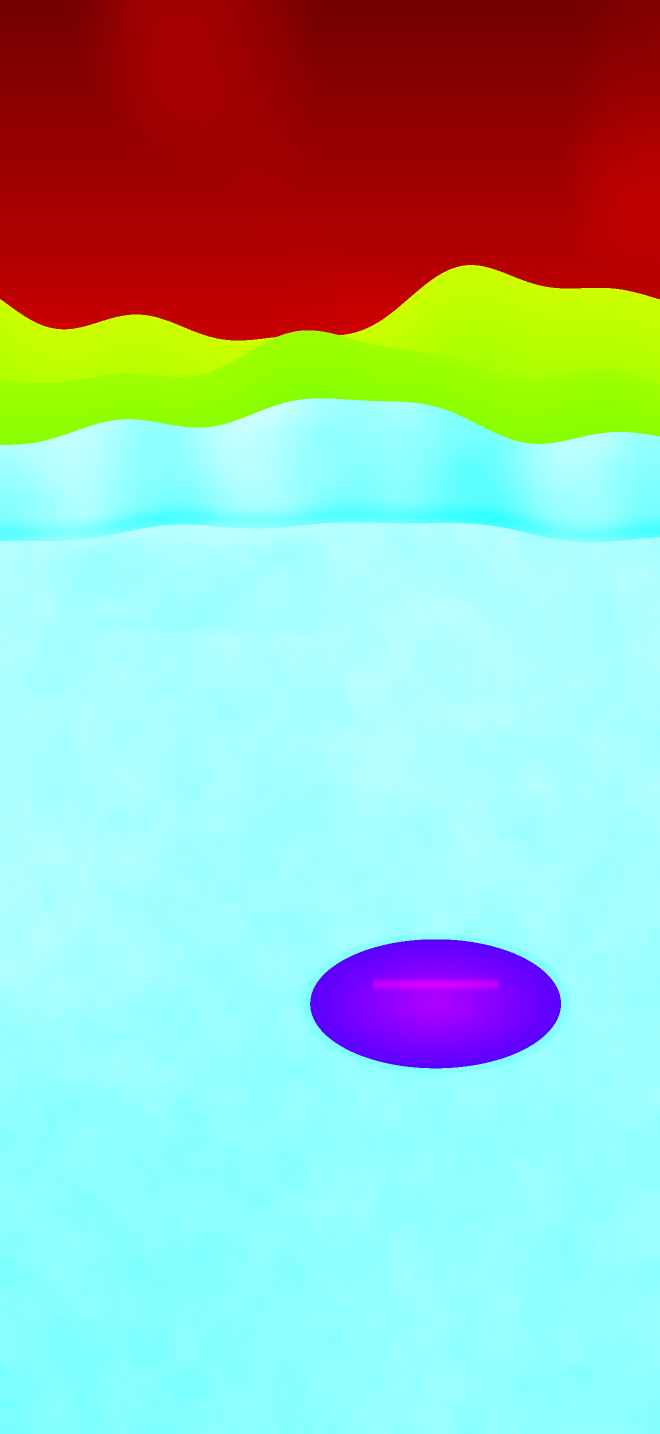
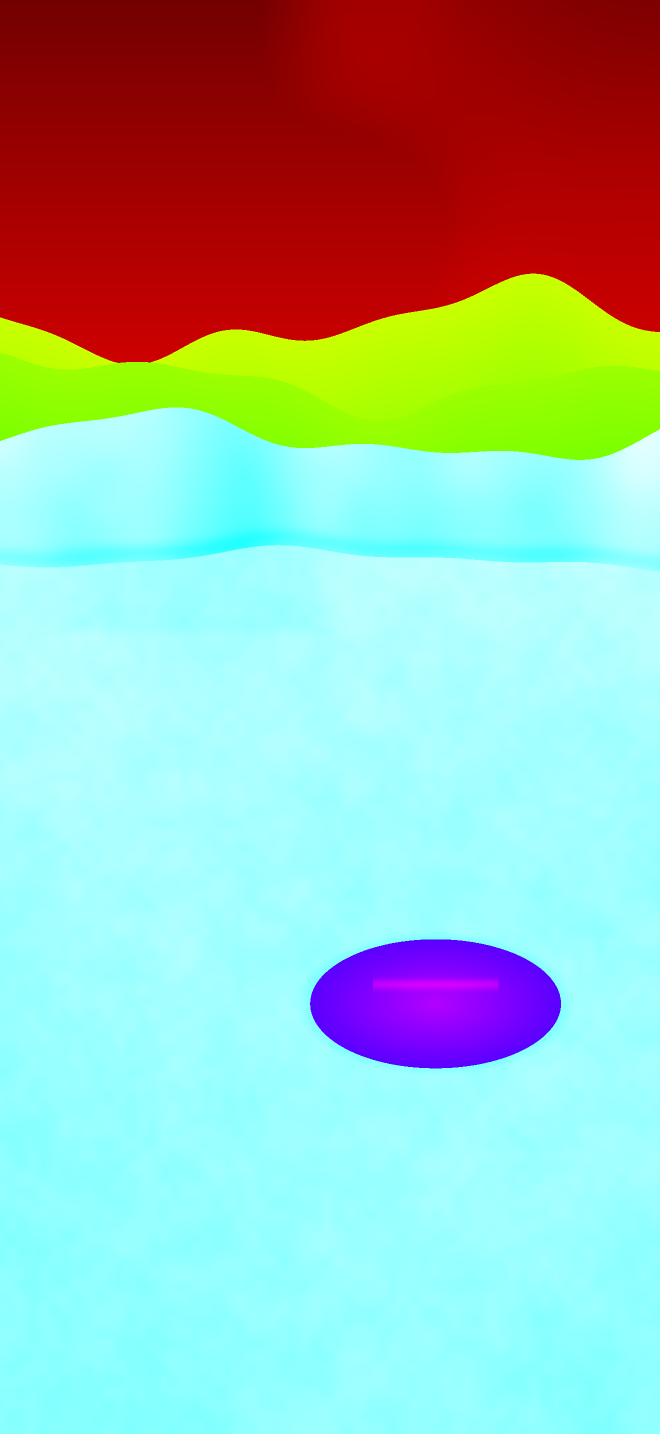
Scene: the Yard and the Far yard join without a seam
The script paints both panels as one wide landscape and cuts it in two,
so the hills, sky, grass and walk mask meet at the join. Both panels
share one hill line and one tree line: a tree near the join shows on
both, and lower trees stand only by the outer edges.

Claude-Session: https://claude.ai/code/session_01NU98SDL9QViasjAEJeH7z4

diff --git a/App/Featherwick/Scene/SceneTrees.swift b/App/Featherwick/Scene/SceneTrees.swift
@@ -178,12 +178,58 @@ enum TreeLine {
         return trees
     }
 
+    /// How far past a panel edge a tree may stand and still show on that panel (its canopy reaches in).
+    static let edgeReach: CGFloat = 0.15
+
+    /// One tree line across panels that join (the Yard, then the Far yard to its right), so the hill
+    /// line runs on without a seam. A tree near the join shows on both panels, each copy clipped at
+    /// its edge. Lower trees stand only by a panel's outer edge, never at the join.
+    static func makeJoined(_ panels: [FarmPanel], seed: UInt64, hillY: CGFloat) -> [FarmPanel: [PlacedTree]] {
+        var rng = SeededRNG(seed: seed)
+        var line: [PlacedTree] = []
+        var x: CGFloat = CGFloat.random(in: -0.04...0.1, using: &rng)
+        while x < CGFloat(panels.count) + 0.04 {
+            let y: CGFloat = hillY + CGFloat.random(in: hillJitter, using: &rng)
+            line.append(tree(id: line.count, at: CGPoint(x: x, y: y), using: &rng))
+            x += CGFloat.random(in: spacing, using: &rng)
+        }
+        var out: [FarmPanel: [PlacedTree]] = [:]
+        for (index, panel) in panels.enumerated() {
+            let left: CGFloat = CGFloat(index)
+            let near: [PlacedTree] = line.filter { $0.base.x >= left - edgeReach && $0.base.x <= left + 1 + edgeReach }
+            var trees: [PlacedTree] = []
+            for t in near { trees.append(moved(t, by: -left, id: trees.count)) }
+            // Lower trees by the outer edge only: the first panel's left, the last panel's right.
+            var sides: [ClosedRange<CGFloat>] = []
+            if index == 0 { sides.append(0.02...0.12) }
+            if index == panels.count - 1 { sides.append(0.88...0.98) }
+            let lower: Int = Int.random(in: lowerCount, using: &rng)
+            for _ in 0..<lower where !sides.isEmpty {
+                let mask: WalkMask? = WalkMask.all[panel]
+                if let spot = lowerSpot(panel: panel, hillY: hillY, mask: mask, sides: sides, using: &rng) {
+                    trees.append(tree(id: trees.count, at: spot, using: &rng))
+                }
+            }
+            out[panel] = trees
+        }
+        return out
+    }
+
+    /// The same tree, its base moved across by `dx` panel widths, with a new id.
+    private static func moved(_ t: PlacedTree, by dx: CGFloat, id: Int) -> PlacedTree {
+        PlacedTree(
+            id: id, kind: t.kind, base: CGPoint(x: t.base.x + dx, y: t.base.y), size: t.size,
+            flipped: t.flipped, hueShift: t.hueShift, swayDegrees: t.swayDegrees, swaySeconds: t.swaySeconds,
+            swayDelay: t.swayDelay)
+    }
+
     /// A spot near the left or right edge, below the hill line, clear of the building ground.
     private static func lowerSpot(
-        panel: FarmPanel, hillY: CGFloat, mask: WalkMask?, using rng: inout SeededRNG
+        panel: FarmPanel, hillY: CGFloat, mask: WalkMask?,
+        sides: [ClosedRange<CGFloat>] = [0.02...0.12, 0.88...0.98], using rng: inout SeededRNG
     ) -> CGPoint? {
         for _ in 0..<8 {
-            let side: ClosedRange<CGFloat> = Bool.random(using: &rng) ? 0.02...0.12 : 0.88...0.98
+            guard let side: ClosedRange<CGFloat> = sides.randomElement(using: &rng) else { return nil }
             let spot = CGPoint(
                 x: CGFloat.random(in: side, using: &rng), y: hillY + CGFloat.random(in: lowerDrop, using: &rng))
             // Keep clear of the building ground, with room for the building to show.

diff --git a/App/Featherwick/Scene/FarmScene.swift b/App/Featherwick/Scene/FarmScene.swift
@@ -128,8 +128,14 @@ enum SceneArt {
     }
 
     private static let treeLines: [FarmPanel: [PlacedTree]] = {
+        // The Yard and the Far yard are one landscape (see `scripts/make_scene_art.py`), so they share one
+        // tree line that runs across the join. Any other scene panel gets its own.
+        let joined: [FarmPanel] = [.yard, .farYard].filter { SceneArtLayout.hillLine($0) != nil }
         var out: [FarmPanel: [PlacedTree]] = [:]
-        for panel in FarmPanel.allCases {
+        if let first = joined.first, let hill = SceneArtLayout.hillLine(first) {
+            out = TreeLine.makeJoined(joined, seed: seed(first), hillY: hill)
+        }
+        for panel in FarmPanel.allCases where out[panel] == nil {
             guard let hill = SceneArtLayout.hillLine(panel) else { continue }
             out[panel] = TreeLine.make(panel: panel, seed: seed(panel), hillY: hill, mask: WalkMask.all[panel])
         }

diff --git a/App/Featherwick/Scene/SceneArtLayout.swift b/App/Featherwick/Scene/SceneArtLayout.swift
@@ -25,8 +25,8 @@ enum SceneArtLayout {
     /// birds there are smallest.
     static func hillLine(_ panel: FarmPanel) -> CGFloat? {
         switch panel {
-        case .yard: 0.4
-        case .farYard: 0.3702
+        case .yard: 0.3898
+        case .farYard: 0.3898
         default: nil
         }
     }

diff --git a/scripts/make_scene_art.py b/scripts/make_scene_art.py
@@ -5,7 +5,8 @@ Run from the repository root (Python 3, Pillow and numpy):
 
     python3 scripts/make_scene_art.py
 
-It writes, for each panel (`yard`, `far-yard`):
+The Yard and the Far yard are one landscape: the script paints both as one wide picture and cuts it
+in two, so they join without a seam. It writes, for each panel (`yard`, `far-yard`):
 
 - `App/Featherwick/Art/Scene/scene-<panel>-land.png`: the landscape, 660 x 1434 px (half of a
   1320 x 2868 iPhone screen), RGB. R is the value (shading, 0 = dark, 1 = light). G and B are two
@@ -46,31 +47,34 @@ WALK_MARGIN = 0.012
 # Material bits (G, B).
 SKY, FAR_HILL, GRASS, POND = (0, 0), (1, 0), (1, 1), (0, 1)
 
+# The Yard and the Far yard are one landscape, side by side (Yard left, Far yard right). The script
+# paints it as one wide picture and cuts it in two, so the hills, sky and grass meet at the join
+# without a seam. X runs 0...2 across the pair (1 = one panel width); Y runs 0...1 down.
+SEED = 11
+HILL_LINE = 0.39
+FAR_RIDGES = [(0.225, 0.021, 0.79), (0.265, 0.017, 0.61)]
+NEAR_RIDGE = 0.305
+
 PANELS = [
     {
         "key": "yard",
         "swift": "yard",
-        "seed": 11,
-        "hill_line": 0.40,
-        "far_ridges": [(0.235, 0.020, 0.78), (0.275, 0.018, 0.60)],
-        "near_ridge": 0.315,
-        # Ground kept for the coop run: x, y, width, height as fractions.
+        "index": 0,
+        # Ground kept for the coop run: x, y, width, height as fractions of this panel.
         "reserved": (0.56, 0.43, 0.34, 0.12),
         "pond": None,
     },
     {
         "key": "far-yard",
         "swift": "farYard",
-        "seed": 23,
-        "hill_line": 0.37,
-        "far_ridges": [(0.215, 0.022, 0.80), (0.255, 0.016, 0.62)],
-        "near_ridge": 0.295,
+        "index": 1,
         # The back fence, along the hill line on the left.
         "reserved": (0.06, 0.375, 0.46, 0.07),
-        # Centre x, centre y, radius x, radius y (fractions of width and height).
+        # Centre x, centre y, radius x, radius y (fractions of this panel's width and height).
         "pond": (0.66, 0.70, 0.19, 0.045),
     },
 ]
+COUNT = len(PANELS)
 
 
 def smooth_noise(rng, cells_x, cells_y, w, h):
@@ -89,24 +93,31 @@ def ridge(rng, xs, base, amp):
     return y
 
 
-def make_panel(p):
-    rng = np.random.RandomState(p["seed"])
-    xs = (np.arange(W, dtype=np.float32) + 0.5) / W
+def to_panel_space(p, x):
+    """A panel-local x (0...1) in the shared space of the pair."""
+    return p["index"] + x
+
+
+def make_landscape():
+    """The whole pair as one picture: value, material bits, the hill line, and the walk mask."""
+    rng = np.random.RandomState(SEED)
+    WW = W * COUNT
+    xs = (np.arange(WW, dtype=np.float32) + 0.5) / W
     ys = (np.arange(H, dtype=np.float32) + 0.5) / H
     X, Y = np.meshgrid(xs, ys)
 
-    value = np.zeros((H, W), np.float32)
-    g = np.zeros((H, W), np.float32)
-    b = np.zeros((H, W), np.float32)
+    value = np.zeros((H, WW), np.float32)
+    g = np.zeros((H, WW), np.float32)
+    b = np.zeros((H, WW), np.float32)
 
     # Sky: lighter toward the horizon, with a few soft clouds.
     sky = 0.45 + 0.45 * np.clip(Y / 0.32, 0, 1)
-    clouds = smooth_noise(rng, 5, 9, W, H)
+    clouds = smooth_noise(rng, 5 * COUNT, 9, WW, H)
     sky += 0.18 * np.clip((clouds - 0.6) / 0.4, 0, 1) * np.clip(1 - Y / 0.3, 0, 1)
     value[:] = sky
 
     # Far hills, back to front. Farther is lighter (the air between).
-    for base, amp, tone in p["far_ridges"]:
+    for base, amp, tone in FAR_RIDGES:
         top = ridge(rng, xs, base, amp)[None, :]
         inside = Y >= top
         shade = tone - 0.25 * np.clip((Y - top) / 0.12, 0, 1)
@@ -114,14 +125,14 @@ def make_panel(p):
         g = np.where(inside, 1.0, g)
 
     # The near hill (grass): lit from the upper left, so slopes facing left are lighter.
-    near_top_1d = ridge(rng, xs, p["near_ridge"], 0.014)
+    near_top_1d = ridge(rng, xs, NEAR_RIDGE, 0.014)
     near_top = near_top_1d[None, :]
     slope = np.gradient(near_top_1d)[None, :] * W
-    hill_line_1d = ridge(rng, xs, p["hill_line"], 0.006)
+    hill_line_1d = ridge(rng, xs, HILL_LINE, 0.006)
     hill_line = hill_line_1d[None, :]
     inside = Y >= near_top
     lit = 0.66 - 0.8 * slope - 0.18 * np.clip((Y - near_top) / (hill_line - near_top + 1e-3), 0, 1)
-    texture = smooth_noise(rng, 18, 40, W, H)
+    texture = smooth_noise(rng, 18 * COUNT, 40, WW, H)
     near = lit + 0.06 * (texture - 0.5)
     # A darker band just above the hill line: the hedge bottom where the yard begins.
     band = np.exp(-(((Y - hill_line + 0.006) / 0.006) ** 2))
@@ -129,52 +140,62 @@ def make_panel(p):
     # The yard below the hill line: light near the line, a little deeper toward the viewer.
     yard = 0.70 - 0.16 * np.clip((Y - hill_line) / (1 - hill_line), 0, 1)
     # Broad mounds, then finer grass texture.
-    yard += 0.08 * (smooth_noise(rng, 3, 6, W, H) - 0.5) + 0.06 * (texture - 0.5)
-    yard += 0.04 * (smooth_noise(rng, 60, 120, W, H) - 0.5)
+    yard += 0.08 * (smooth_noise(rng, 3 * COUNT, 6, WW, H) - 0.5) + 0.06 * (texture - 0.5)
+    yard += 0.04 * (smooth_noise(rng, 60 * COUNT, 120, WW, H) - 0.5)
     ground = np.where(Y >= hill_line, yard, near)
     value = np.where(inside, ground, value)
     g = np.where(inside, 1.0, g)
     b = np.where(inside, 1.0, b)
 
-    # The reserved ground: a little worn, so the empty spot reads until the building is drawn.
-    rx, ry, rw, rh = p["reserved"]
-    cx, cy = rx + rw / 2, ry + rh / 2
-    worn = np.clip(1 - np.maximum(np.abs(X - cx) / (rw / 2), np.abs(Y - cy) / (rh / 2)), 0, 1)
-    value -= 0.06 * np.clip(worn * 4, 0, 1)
+    for p in PANELS:
+        # The reserved ground: a little worn, so the empty spot reads until the building is drawn.
+        rx, ry, rw, rh = p["reserved"]
+        cx, cy = to_panel_space(p, rx + rw / 2), ry + rh / 2
+        worn = np.clip(1 - np.maximum(np.abs(X - cx) / (rw / 2), np.abs(Y - cy) / (rh / 2)), 0, 1)
+        value -= 0.06 * np.clip(worn * 4, 0, 1)
 
-    # The pond: a darker rim, a light middle and two streaks of sky.
-    pond_mask = np.zeros((H, W), bool)
-    if p["pond"]:
-        px, py, prx, pry = p["pond"]
-        d = np.sqrt(((X - px) / prx) ** 2 + ((Y - py) / pry) ** 2)
-        pond_mask = d <= 1.0
-        shore = np.clip(1 - np.abs(d - 1.0) / 0.12, 0, 1)
-        value -= 0.12 * shore * (d > 1.0)
-        water = 0.35 + 0.35 * (1 - d)
-        streaks = np.exp(-(((Y - py + pry * 0.3) / (pry * 0.08)) ** 2)) * (np.abs(X - px) < prx * 0.5)
-        water += 0.25 * streaks
-        value = np.where(pond_mask, water, value)
-        g = np.where(pond_mask, 0.0, g)
-        b = np.where(pond_mask, 1.0, b)
+        # The pond: a darker rim, a light middle and two streaks of sky.
+        if p["pond"]:
+            px, py, prx, pry = p["pond"]
+            px = to_panel_space(p, px)
+            d = np.sqrt(((X - px) / prx) ** 2 + ((Y - py) / pry) ** 2)
+            pond_mask = d <= 1.0
+            shore = np.clip(1 - np.abs(d - 1.0) / 0.12, 0, 1)
+            value -= 0.12 * shore * (d > 1.0)
+            water = 0.35 + 0.35 * (1 - d)
+            streaks = np.exp(-(((Y - py + pry * 0.3) / (pry * 0.08)) ** 2)) * (np.abs(X - px) < prx * 0.5)
+            water += 0.25 * streaks
+            value = np.where(pond_mask, water, value)
+            g = np.where(pond_mask, 0.0, g)
+            b = np.where(pond_mask, 1.0, b)
 
     value = np.clip(value, 0, 1)
     rgb = np.stack([value, g, b], axis=-1)
     land = Image.fromarray((rgb * 255 + 0.5).astype(np.uint8))
-    land = land.resize((OUT_W, OUT_H), Image.BOX)
+    land = land.resize((OUT_W * COUNT, OUT_H), Image.BOX)
 
     # Walk mask, at its own small size: tested at pixel centres.
-    mx = (np.arange(MASK_W, dtype=np.float32) + 0.5) / MASK_W
+    mx = (np.arange(MASK_W * COUNT, dtype=np.float32) + 0.5) / MASK_W
     my = (np.arange(MASK_H, dtype=np.float32) + 0.5) / MASK_H
     MX, MY = np.meshgrid(mx, my)
     line_at = np.interp(mx, xs, hill_line_1d)[None, :]
     walk = (MY >= line_at + WALK_MARGIN) & (MY <= WALK_BOTTOM)
-    walk &= ~((MX >= rx) & (MX <= rx + rw) & (MY >= ry) & (MY <= ry + rh))
-    if p["pond"]:
-        px, py, prx, pry = p["pond"]
-        # A little room around the water, so feet stay on the bank.
-        walk &= np.sqrt(((MX - px) / (prx + 0.02)) ** 2 + ((MY - py) / (pry + 0.01)) ** 2) > 1.0
+    for p in PANELS:
+        rx, ry, rw, rh = p["reserved"]
+        rx = to_panel_space(p, rx)
+        walk &= ~((MX >= rx) & (MX <= rx + rw) & (MY >= ry) & (MY <= ry + rh))
+        if p["pond"]:
+            px, py, prx, pry = p["pond"]
+            px = to_panel_space(p, px)
+            # A little room around the water, so feet stay on the bank.
+            walk &= np.sqrt(((MX - px) / (prx + 0.02)) ** 2 + ((MY - py) / (pry + 0.01)) ** 2) > 1.0
     mask = Image.fromarray((walk * 255).astype(np.uint8))
     return land, mask, float(np.mean(hill_line_1d))
+
+
+def cut(image, index, width):
+    """One panel's part of the shared picture."""
+    return image.crop((index * width, 0, (index + 1) * width, image.height))
 
 
 def swift_number(x):
@@ -240,11 +261,12 @@ def swift_layout(results):
 
 def main():
     os.makedirs(ART_DIR, exist_ok=True)
+    land, mask, hill = make_landscape()
     results = []
     for p in PANELS:
-        land, mask, hill = make_panel(p)
-        land.save(os.path.join(ART_DIR, f"scene-{p['key']}-land.png"), optimize=True)
-        mask.save(os.path.join(ART_DIR, f"scene-{p['key']}-walk.png"), optimize=True)
+        cut(land, p["index"], OUT_W).save(os.path.join(ART_DIR, f"scene-{p['key']}-land.png"), optimize=True)
+        cut(mask, p["index"], MASK_W).save(os.path.join(ART_DIR, f"scene-{p['key']}-walk.png"), optimize=True)
+        # One hill line for the pair, so depth and size match when a bird crosses the join.
         results.append((p, hill))
         print(f"{p['key']}: hill line {hill:.4f}")
     with open(SWIFT_OUT, "w") as f:

diff --git a/docs/design/README.md b/docs/design/README.md
@@ -272,6 +272,8 @@ Soft and few. Settings (≡) has a switch for each; both start on.
 ## Farm scene (2.5D)
 The Yard and the Far yard draw a 2.5D scene (`App/Featherwick/Scene/`). The art is a placeholder: a basic hill and sky, simple tree shapes and grass tufts. But it uses the same tools as the real paintings will. The Barn and the Shop stay flat colours for now.
 
+**One landscape.** The Yard and the Far yard are one landscape, side by side. The script paints both as one wide picture and cuts it in two, so the hills, sky and grass meet at the join without a seam. They share one hill line and one tree line: a tree near the join shows on both panels. Lower trees stand only by the outer edges, never at the join.
+
 **Three rules.** Each thing in the scene has a ground point: a bird's feet, a trunk's base. Its Y on screen sets everything (`SceneDepth`).
 - **Draw order = ground Y.** Lower on screen is nearer, so it draws on top. A bird walks behind a tree while its feet are above the tree's base, and in front when they are below.
 - **Size = ground Y.** Things are smallest at the hill line (scale 0.45) and full size at the bottom edge (1.0). A bird that walks up the yard gets smaller. The two numbers are `SceneDepth.farScale` and `nearScale`.
@@ -282,7 +284,7 @@ The Yard and the Far yard draw a 2.5D scene (`App/Featherwick/Scene/`). The art 
 2. **Middle:** trees, fences, the coop and the birds, in one stack, each sorted by its ground Y (`.zIndex(depth.zIndex(forGroundY:))`).
 3. **Front:** grass tufts along the bottom edge. Always on top.
 
-**Trees.** Five designs (`TreeKind`: oak, poplar, pine, apple, birch), each a trunk and a canopy in separate materials. Code places them along the hill line with random spacing, size and left/right flip, plus one or two lower in the yard near the edges (`TreeLine`). The dice are seeded per panel, never the game's, so a panel always has the same trees. A new panel gets its own tree line with no new painting. Each tree sways slowly on its own about its trunk base. Reduce Motion: no sway.
+**Trees.** Five designs (`TreeKind`: oak, poplar, pine, apple, birch), each a trunk and a canopy in separate materials. Code places them along the hill line with random spacing, size and left/right flip, plus one or two lower in the yard near the outer edges (`TreeLine.makeJoined`). The dice are seeded per panel, never the game's, so a panel always has the same trees. A new panel gets its own tree line with no new painting. Each tree sways slowly on its own about its trunk base. Reduce Motion: no sway.
 
 **Colour: ramps and masks.** The art holds value (light and dark) and material, not colour. One shader (`SeasonRamp.metal`) maps each value along the ramp of its material for the season (`SeasonRamp.swift`). So one painting serves every season:
 - Spring: fresh green. Summer: deep green. Autumn: gold grass under red and orange trees. Winter: pale.
